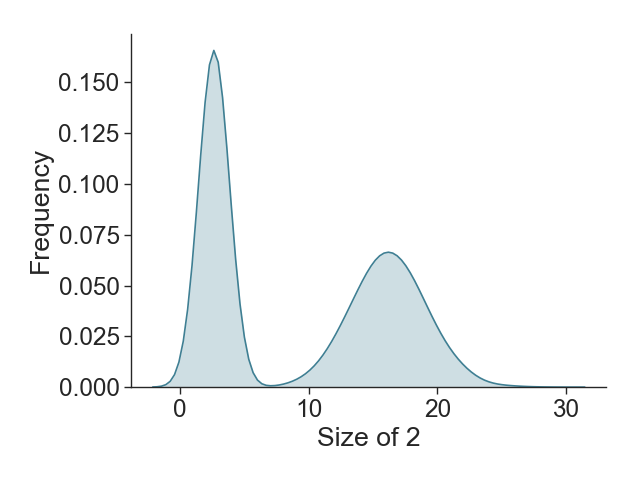
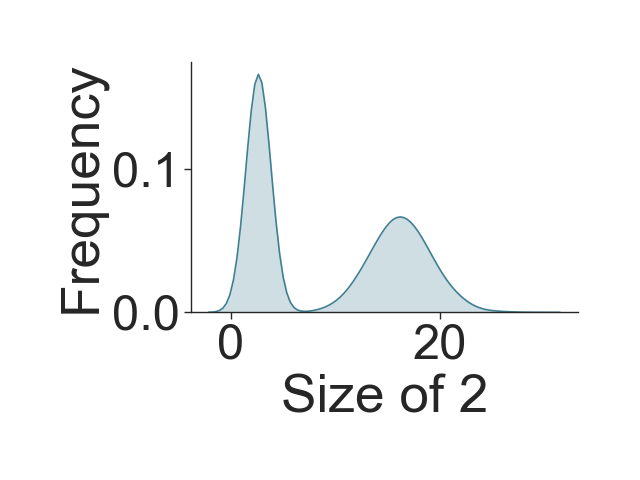
stop

Changed region(s): [[0.0312, 0.0625, 0.9375, 0.9375], [0.25, 0.8438, 0.3125, 0.875]]

diff --git a/scripts/archive/mnist/mnist_histograms/build.py b/scripts/archive/mnist/mnist_histograms/build.py
@@ -6,7 +6,7 @@ import pickle
 import seaborn as sns
 
 PALETTE = sns.diverging_palette(220, 10, n=7)
-FONT_SCALE = 2
+FONT_SCALE = 4
 STYLE = "ticks"
 CONTEXT = "paper"
 
